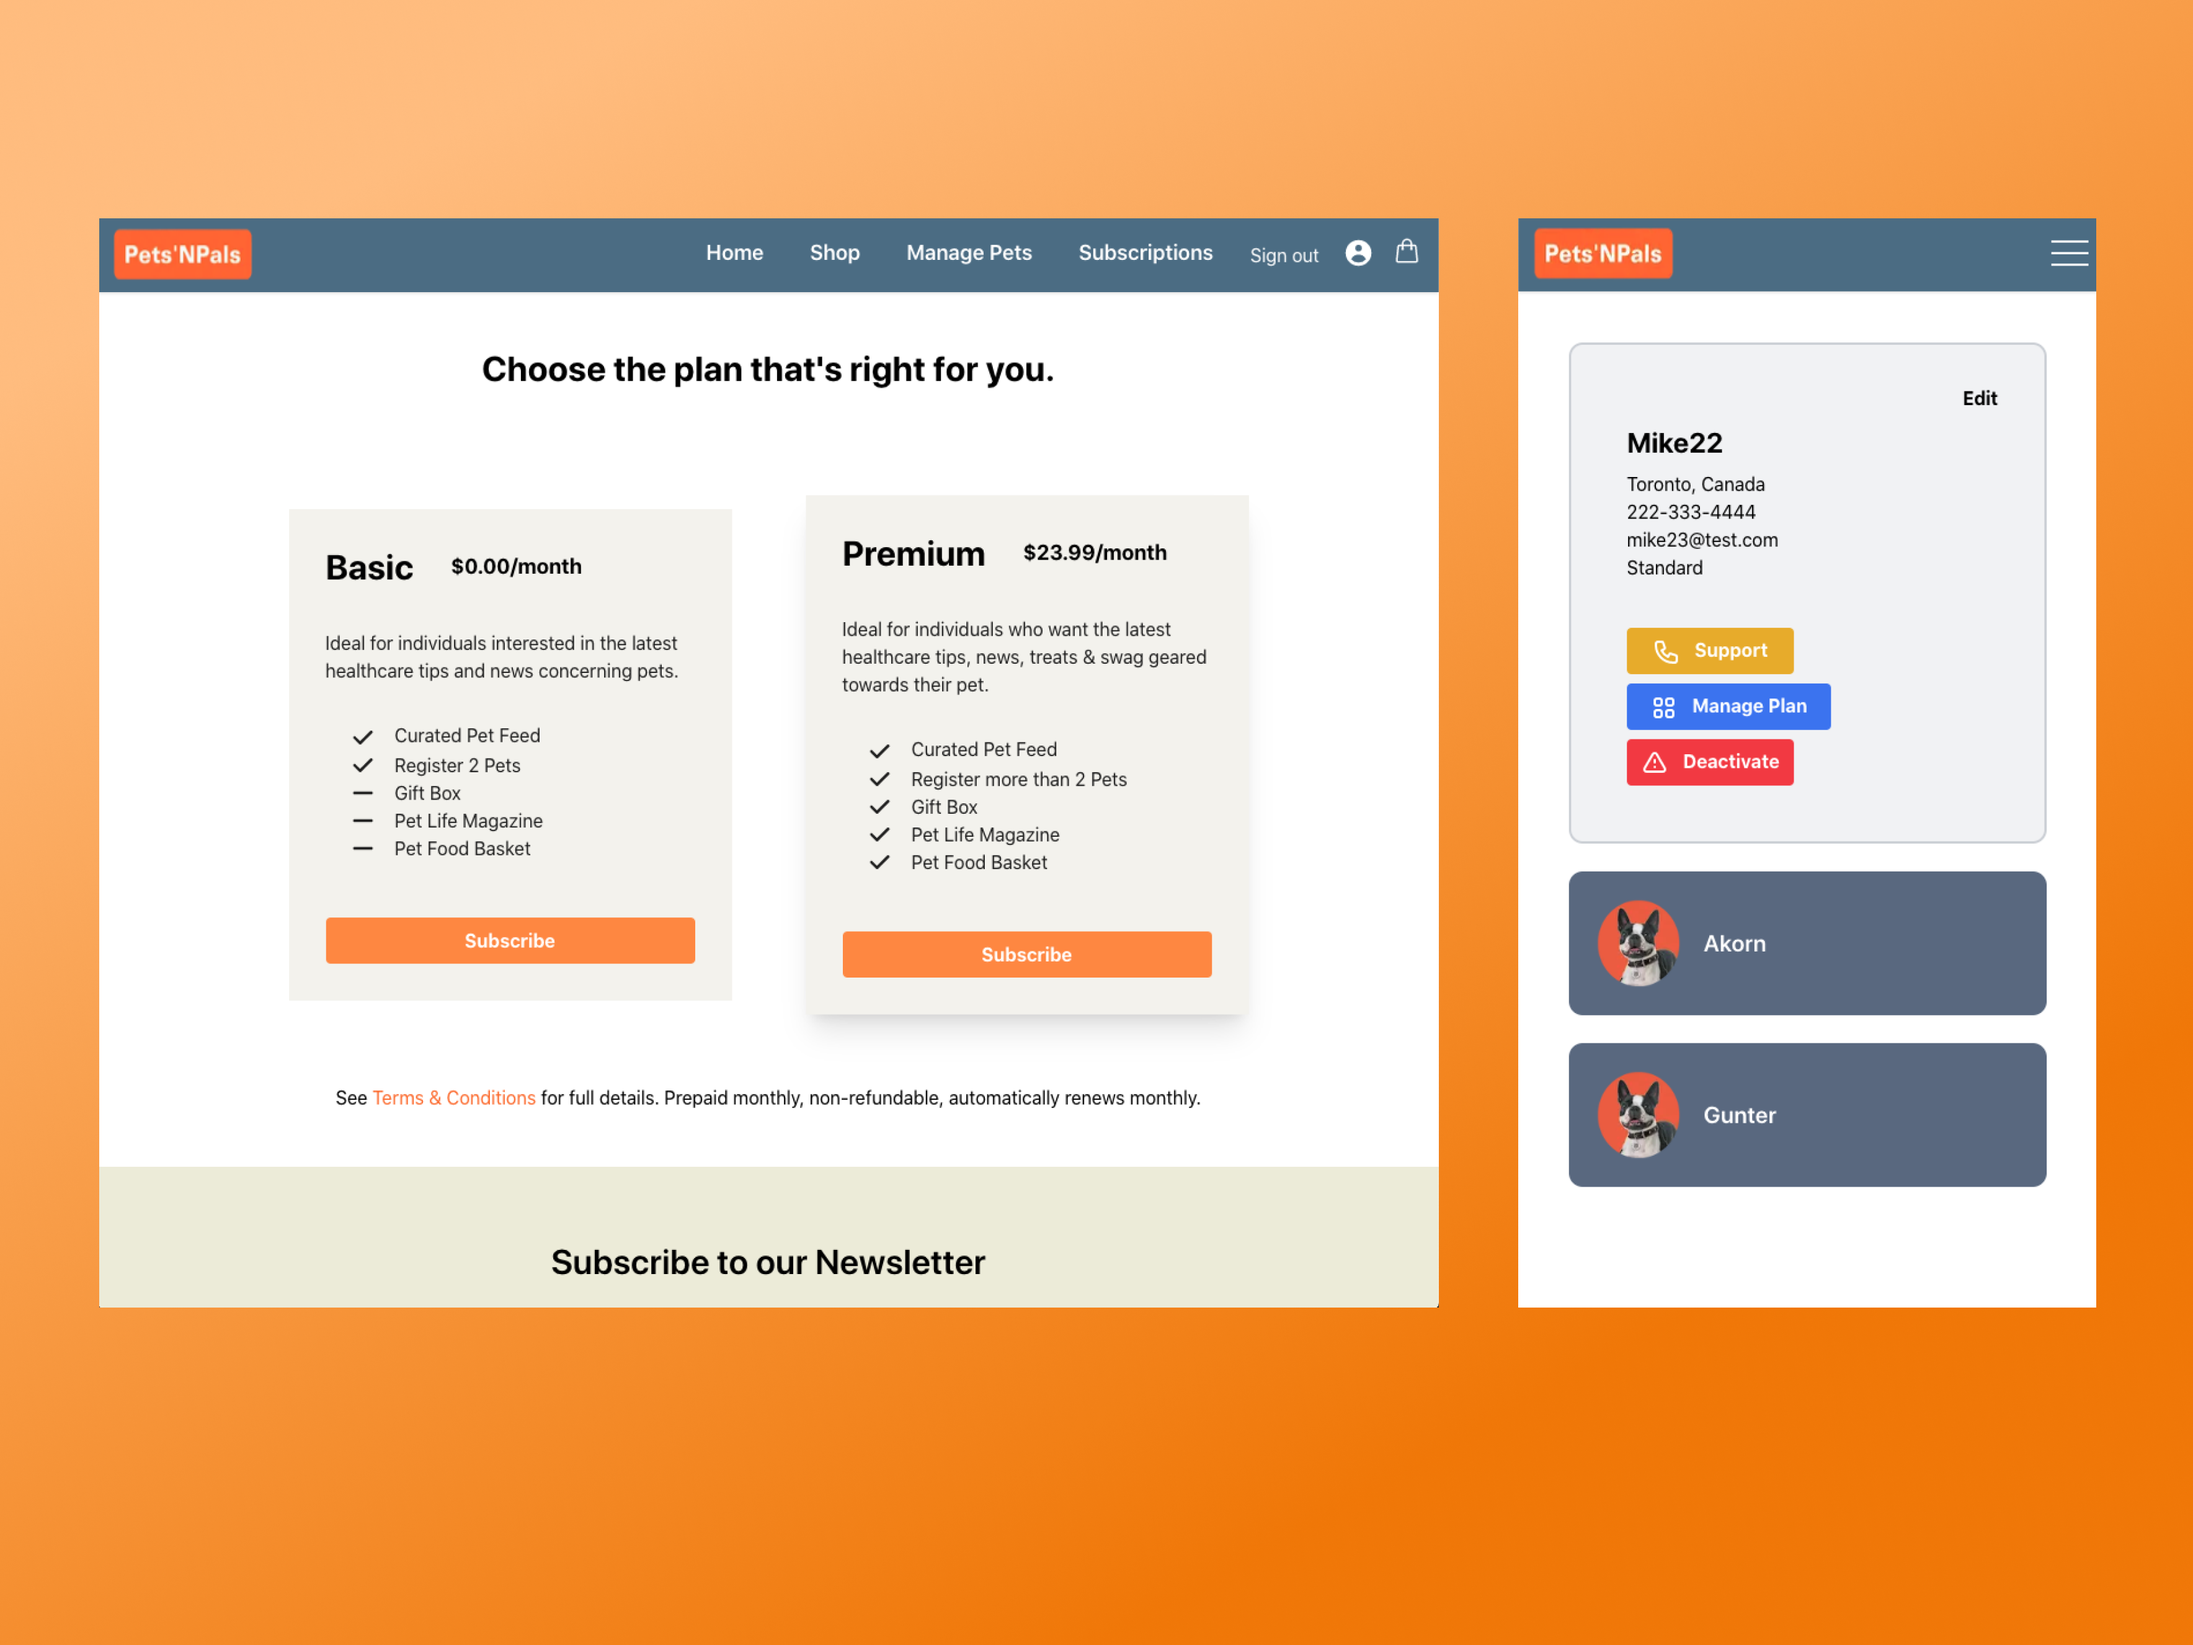
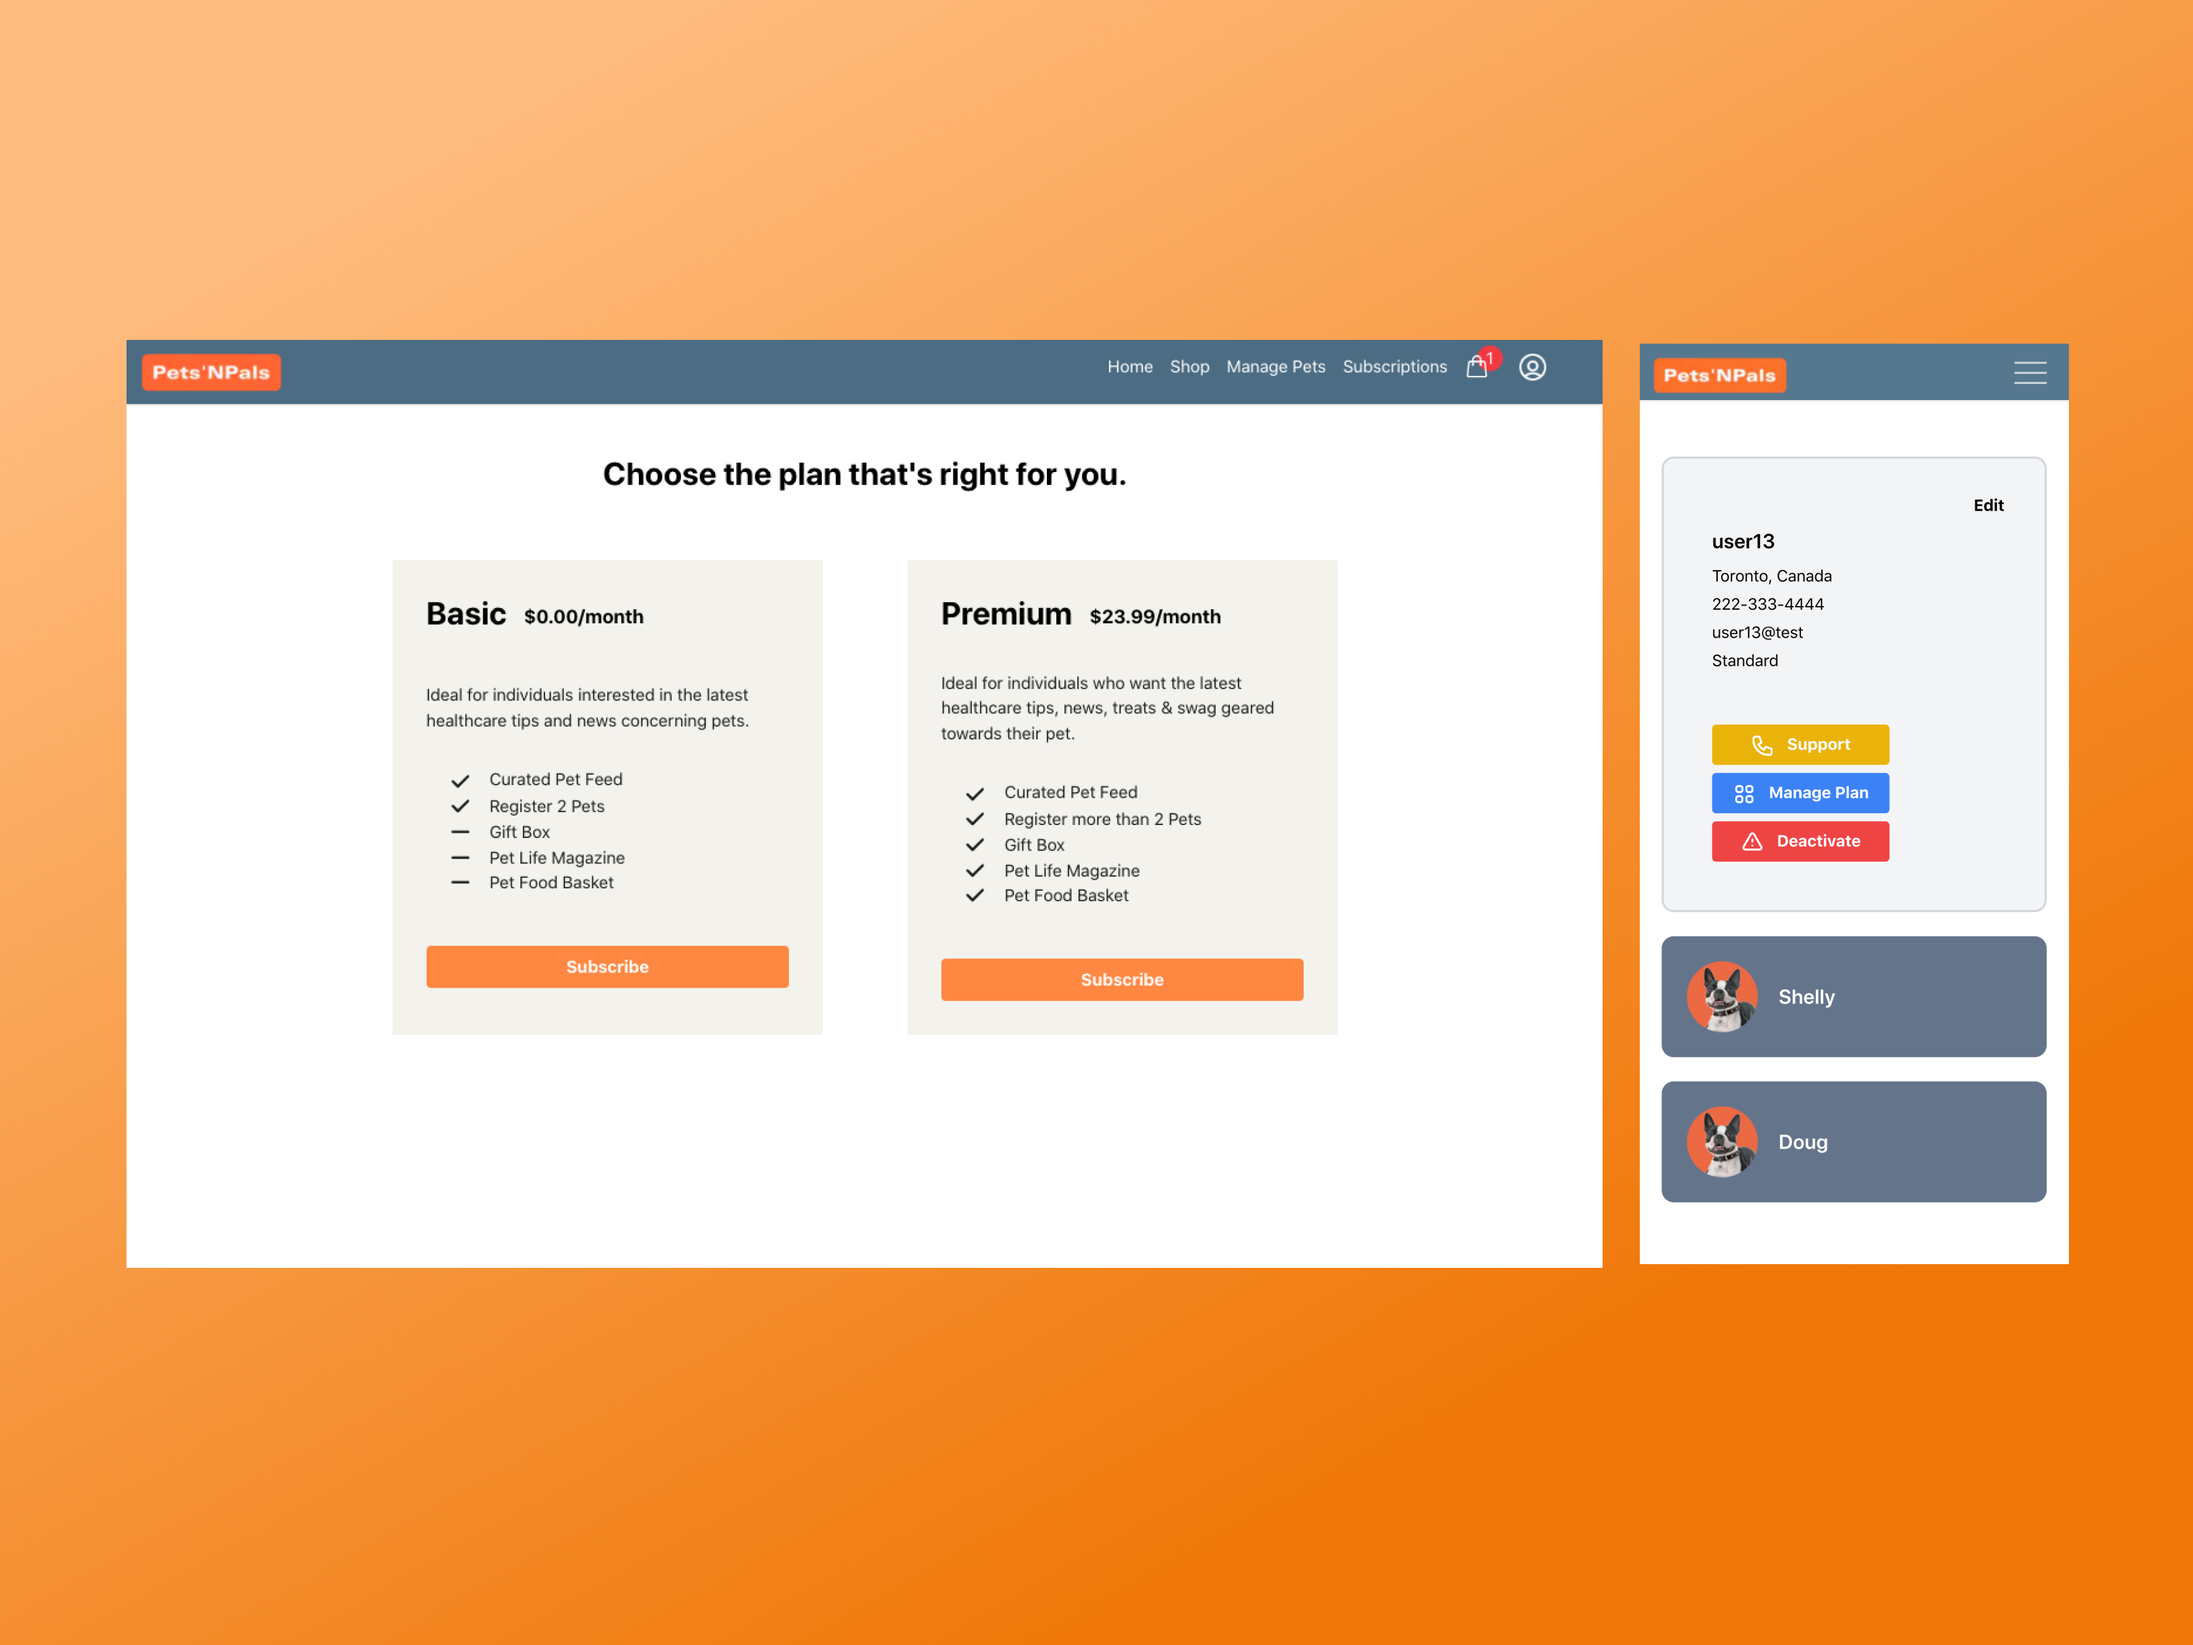
Pets N' Pals screenshots updated

Changed region(s): [[0.0311, 0.1237, 0.9644, 0.8039], [0.1244, 0.2783, 0.5911, 0.6184], [0.1555, 0.6493, 0.5288, 0.6802]]

diff --git a/src/Pages/index.js b/src/Pages/index.js
@@ -79,12 +79,12 @@ export default function index() {
                 <div className="uppercase font-bold text-white cursor-pointer">
                   <img
                     sizes="(min-width: 50em) 50em, 100vw"
-                    srcSet="https://ik.imagekit.io/bbwxfzjdl2zg/tr:w-256/petsnpals_figma.png?updatedAt=1683028442056 256w,
-                      https://ik.imagekit.io/bbwxfzjdl2zg/tr:w-512/petsnpals_figma.png?updatedAt=1683028442056 512w,
-                      https://ik.imagekit.io/bbwxfzjdl2zg/tr:w-768/petsnpals_figma.png?updatedAt=1683028442056 768w,
-                      https://ik.imagekit.io/bbwxfzjdl2zg/tr:w-1024/petsnpals_figma.png?updatedAt=1683028442056 1024w,
-                      https://ik.imagekit.io/bbwxfzjdl2zg/tr:w-1280/petsnpals_figma.png?updatedAt=1683028442056 1280w"
-                    src="https://ik.imagekit.io/bbwxfzjdl2zg/tr:w-512/petsnpals_figma.png?updatedAt=1683028442056"
+                    srcSet="https://ik.imagekit.io/bbwxfzjdl2zg/tr:w-256/petsnpals_figma_2.png?updatedAt=1716899028194 256w,
+                      https://ik.imagekit.io/bbwxfzjdl2zg/tr:w-512/petsnpals_figma_2.png?updatedAt=1716899028194 512w,
+                      https://ik.imagekit.io/bbwxfzjdl2zg/tr:w-768/petsnpals_figma_2.png?updatedAt=1716899028194 768w,
+                      https://ik.imagekit.io/bbwxfzjdl2zg/tr:w-1024/petsnpals_figma_2.png?updatedAt=1716899028194 1024w,
+                      https://ik.imagekit.io/bbwxfzjdl2zg/tr:w-1280/petsnpals_figma_2.png?updatedAt=1716899028194 1280w"
+                    src="https://ik.imagekit.io/bbwxfzjdl2zg/tr:w-512/petsnpals_figma_2.png?updatedAt=1716899028194"
                     className="rounded-lg shadow-md"
                     alt="News section and mobile cart screen"
                   />
@@ -94,12 +94,12 @@ export default function index() {
                 <div className="uppercase font-bold text-white cursor-pointer">
                   <img
                     sizes="(min-width: 50em) 50em, 100vw"
-                    srcSet="https://ik.imagekit.io/bbwxfzjdl2zg/tr:w-256/petsnpals_figma_2.png?updatedAt=1683029238191 256w,
-                      https://ik.imagekit.io/bbwxfzjdl2zg/tr:w-512/petsnpals_figma_2.png?updatedAt=1683029238191 512w,
-                      https://ik.imagekit.io/bbwxfzjdl2zg/tr:w-768/petsnpals_figma_2.png?updatedAt=1683029238191 768w,
-                      https://ik.imagekit.io/bbwxfzjdl2zg/tr:w-1024/petsnpals_figma_2.png?updatedAt=1683029238191 1024w,
-                      https://ik.imagekit.io/bbwxfzjdl2zg/tr:w-1280/petsnpals_figma_2.png?updatedAt=1683029238191 1280w"
-                    src="https://ik.imagekit.io/bbwxfzjdl2zg/tr:w-512/petsnpals_figma_2.png?updatedAt=1683029238191"
+                    srcSet="https://ik.imagekit.io/bbwxfzjdl2zg/tr:w-256/petsnpals_figma.png?updatedAt=1716899044459 256w,
+                      https://ik.imagekit.io/bbwxfzjdl2zg/tr:w-512/petsnpals_figma.png?updatedAt=1716899044459 512w,
+                      https://ik.imagekit.io/bbwxfzjdl2zg/tr:w-768/petsnpals_figma.png?updatedAt=1716899044459 768w,
+                      https://ik.imagekit.io/bbwxfzjdl2zg/tr:w-1024/petsnpals_figma.png?updatedAt=1716899044459 1024w,
+                      https://ik.imagekit.io/bbwxfzjdl2zg/tr:w-1280/petsnpals_figma.png?updatedAt=1716899044459 1280w"
+                    src="https://ik.imagekit.io/bbwxfzjdl2zg/tr:w-512/petsnpals_figma.png?updatedAt=1716899044459"
                     className="rounded-lg shadow-md"
                     alt="Products page and product detail screen"
                   />
@@ -109,12 +109,12 @@ export default function index() {
                 <div className="uppercase font-bold text-white cursor-pointer">
                   <img
                     sizes="(min-width: 50em) 50em, 100vw"
-                    srcSet="https://ik.imagekit.io/bbwxfzjdl2zg/tr:w-256/petsnpals_figma_3.png?updatedAt=1683031217105 256w,
-                      https://ik.imagekit.io/bbwxfzjdl2zg/tr:w-512/petsnpals_figma_3.png?updatedAt=1683031217105 512w,
-                      https://ik.imagekit.io/bbwxfzjdl2zg/tr:w-768/petsnpals_figma_3.png?updatedAt=1683031217105 768w,
-                      https://ik.imagekit.io/bbwxfzjdl2zg/tr:w-1024/petsnpals_figma_3.png?updatedAt=1683031217105 1024w,
-                      https://ik.imagekit.io/bbwxfzjdl2zg/tr:w-1280/petsnpals_figma_3.png?updatedAt=1683031217105 1280w"
-                    src="https://ik.imagekit.io/bbwxfzjdl2zg/tr:w-512/petsnpals_figma_3.png?updatedAt=1683031217105"
+                    srcSet="https://ik.imagekit.io/bbwxfzjdl2zg/tr:w-256/petsnpals_figma_3.png?updatedAt=1716899060582 256w,
+                      https://ik.imagekit.io/bbwxfzjdl2zg/tr:w-512/petsnpals_figma_3.png?updatedAt=1716899060582 512w,
+                      https://ik.imagekit.io/bbwxfzjdl2zg/tr:w-768/petsnpals_figma_3.png?updatedAt=1716899060582 768w,
+                      https://ik.imagekit.io/bbwxfzjdl2zg/tr:w-1024/petsnpals_figma_3.png?updatedAt=1716899060582 1024w,
+                      https://ik.imagekit.io/bbwxfzjdl2zg/tr:w-1280/petsnpals_figma_3.png?updatedAt=1716899060582 1280w"
+                    src="https://ik.imagekit.io/bbwxfzjdl2zg/tr:w-512/petsnpals_figma_3.png?updatedAt=1716899060582"
                     className="rounded-lg shadow-md"
                     alt="Subscription and profile screen"
                   />
